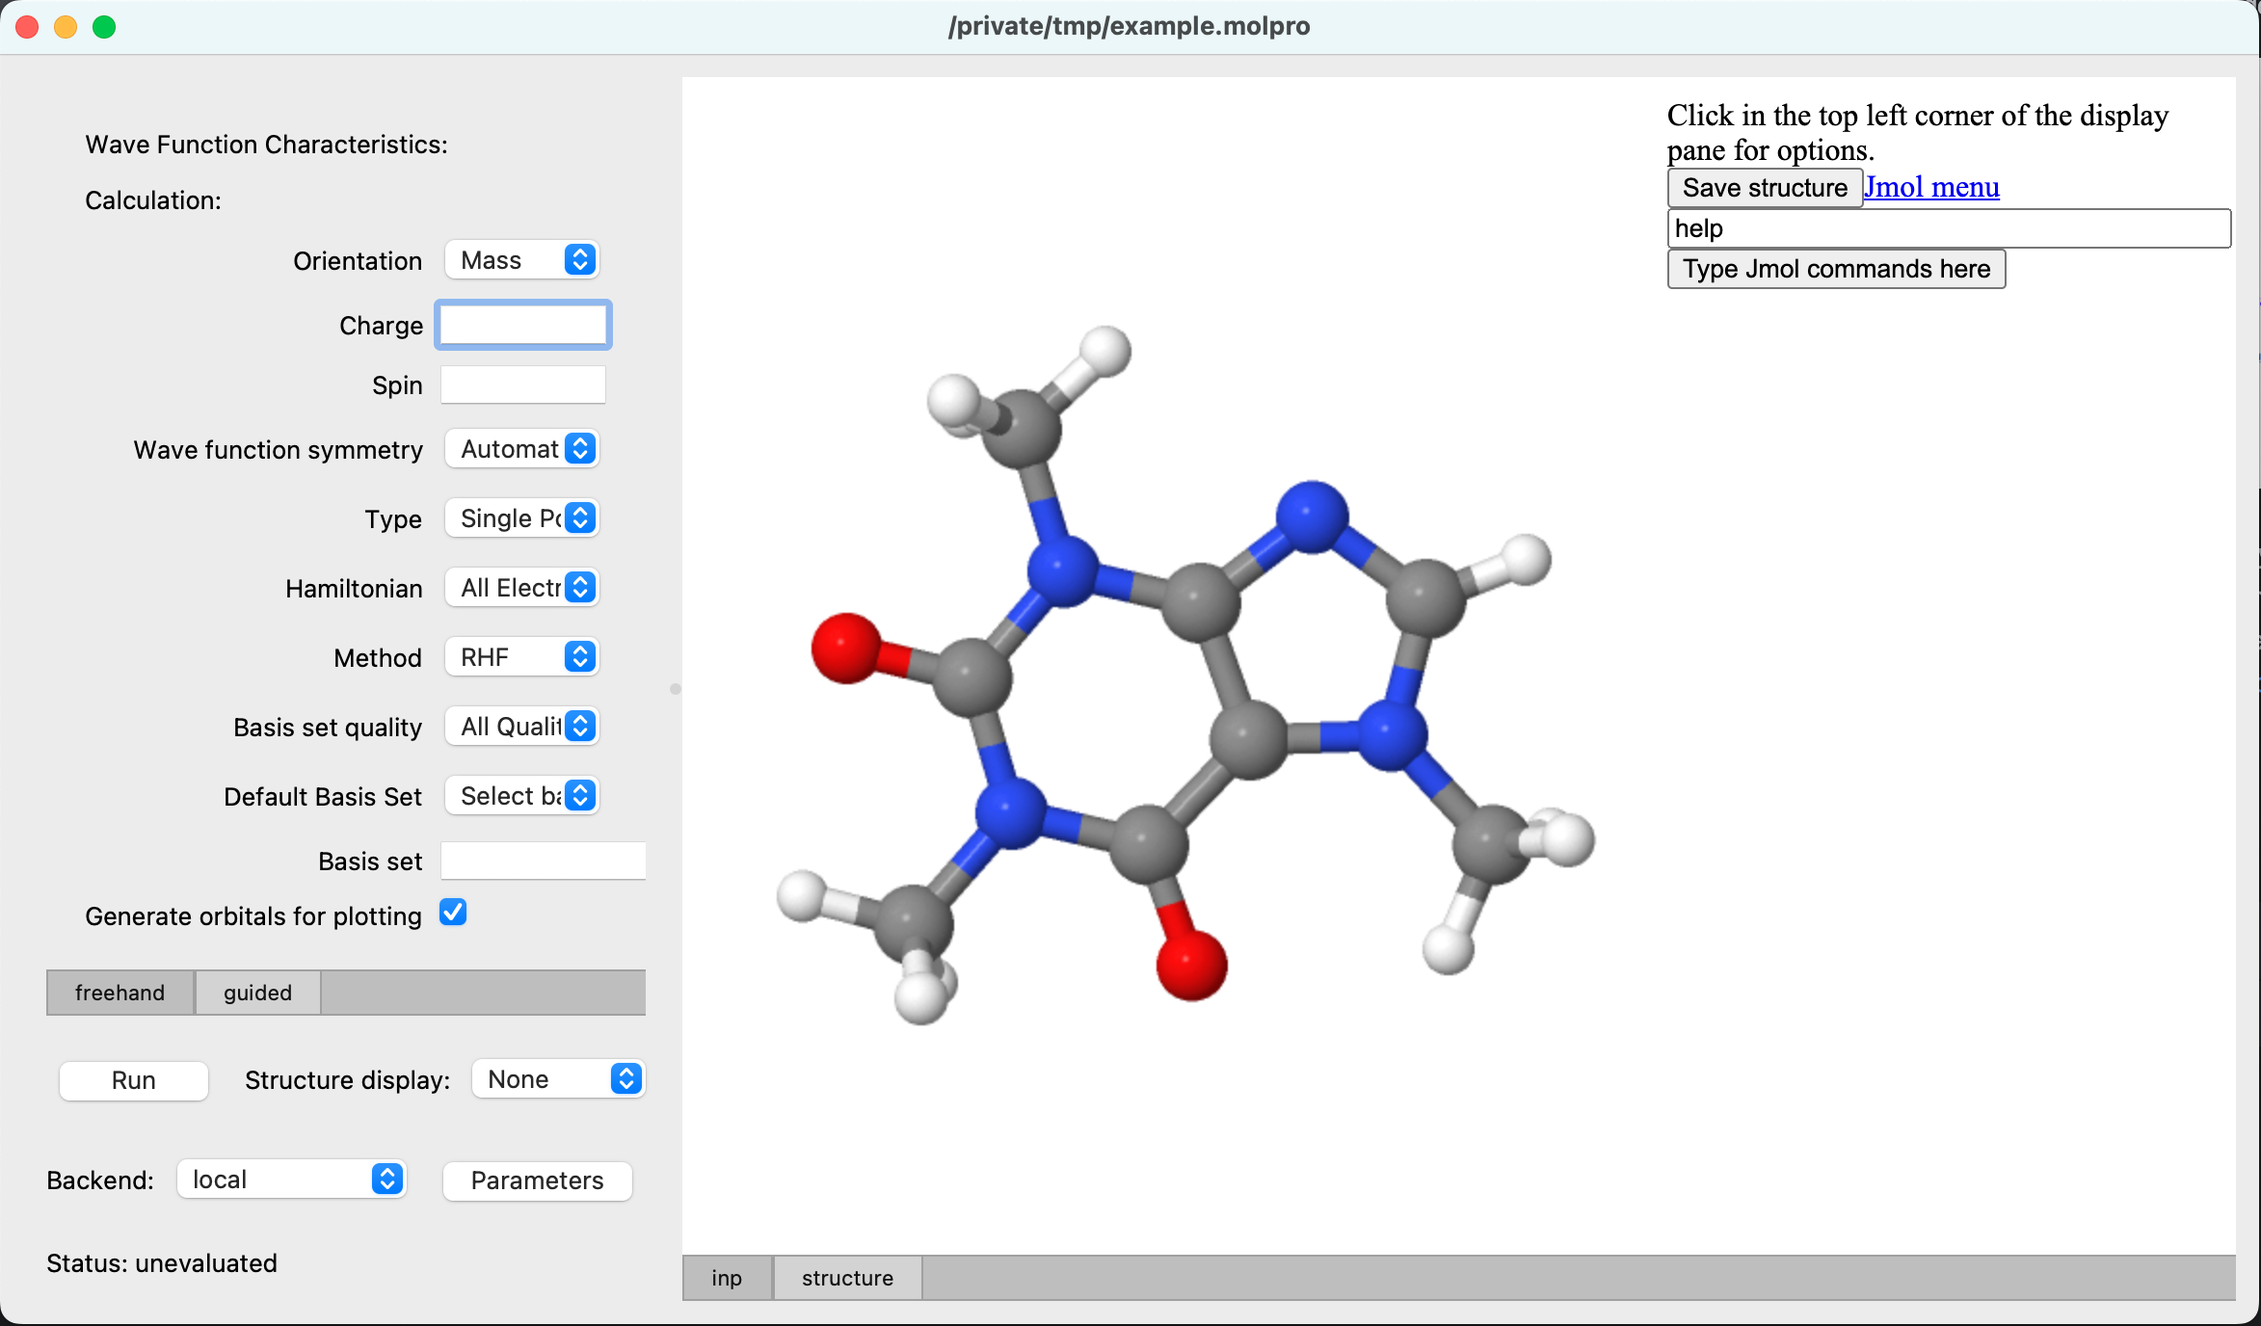
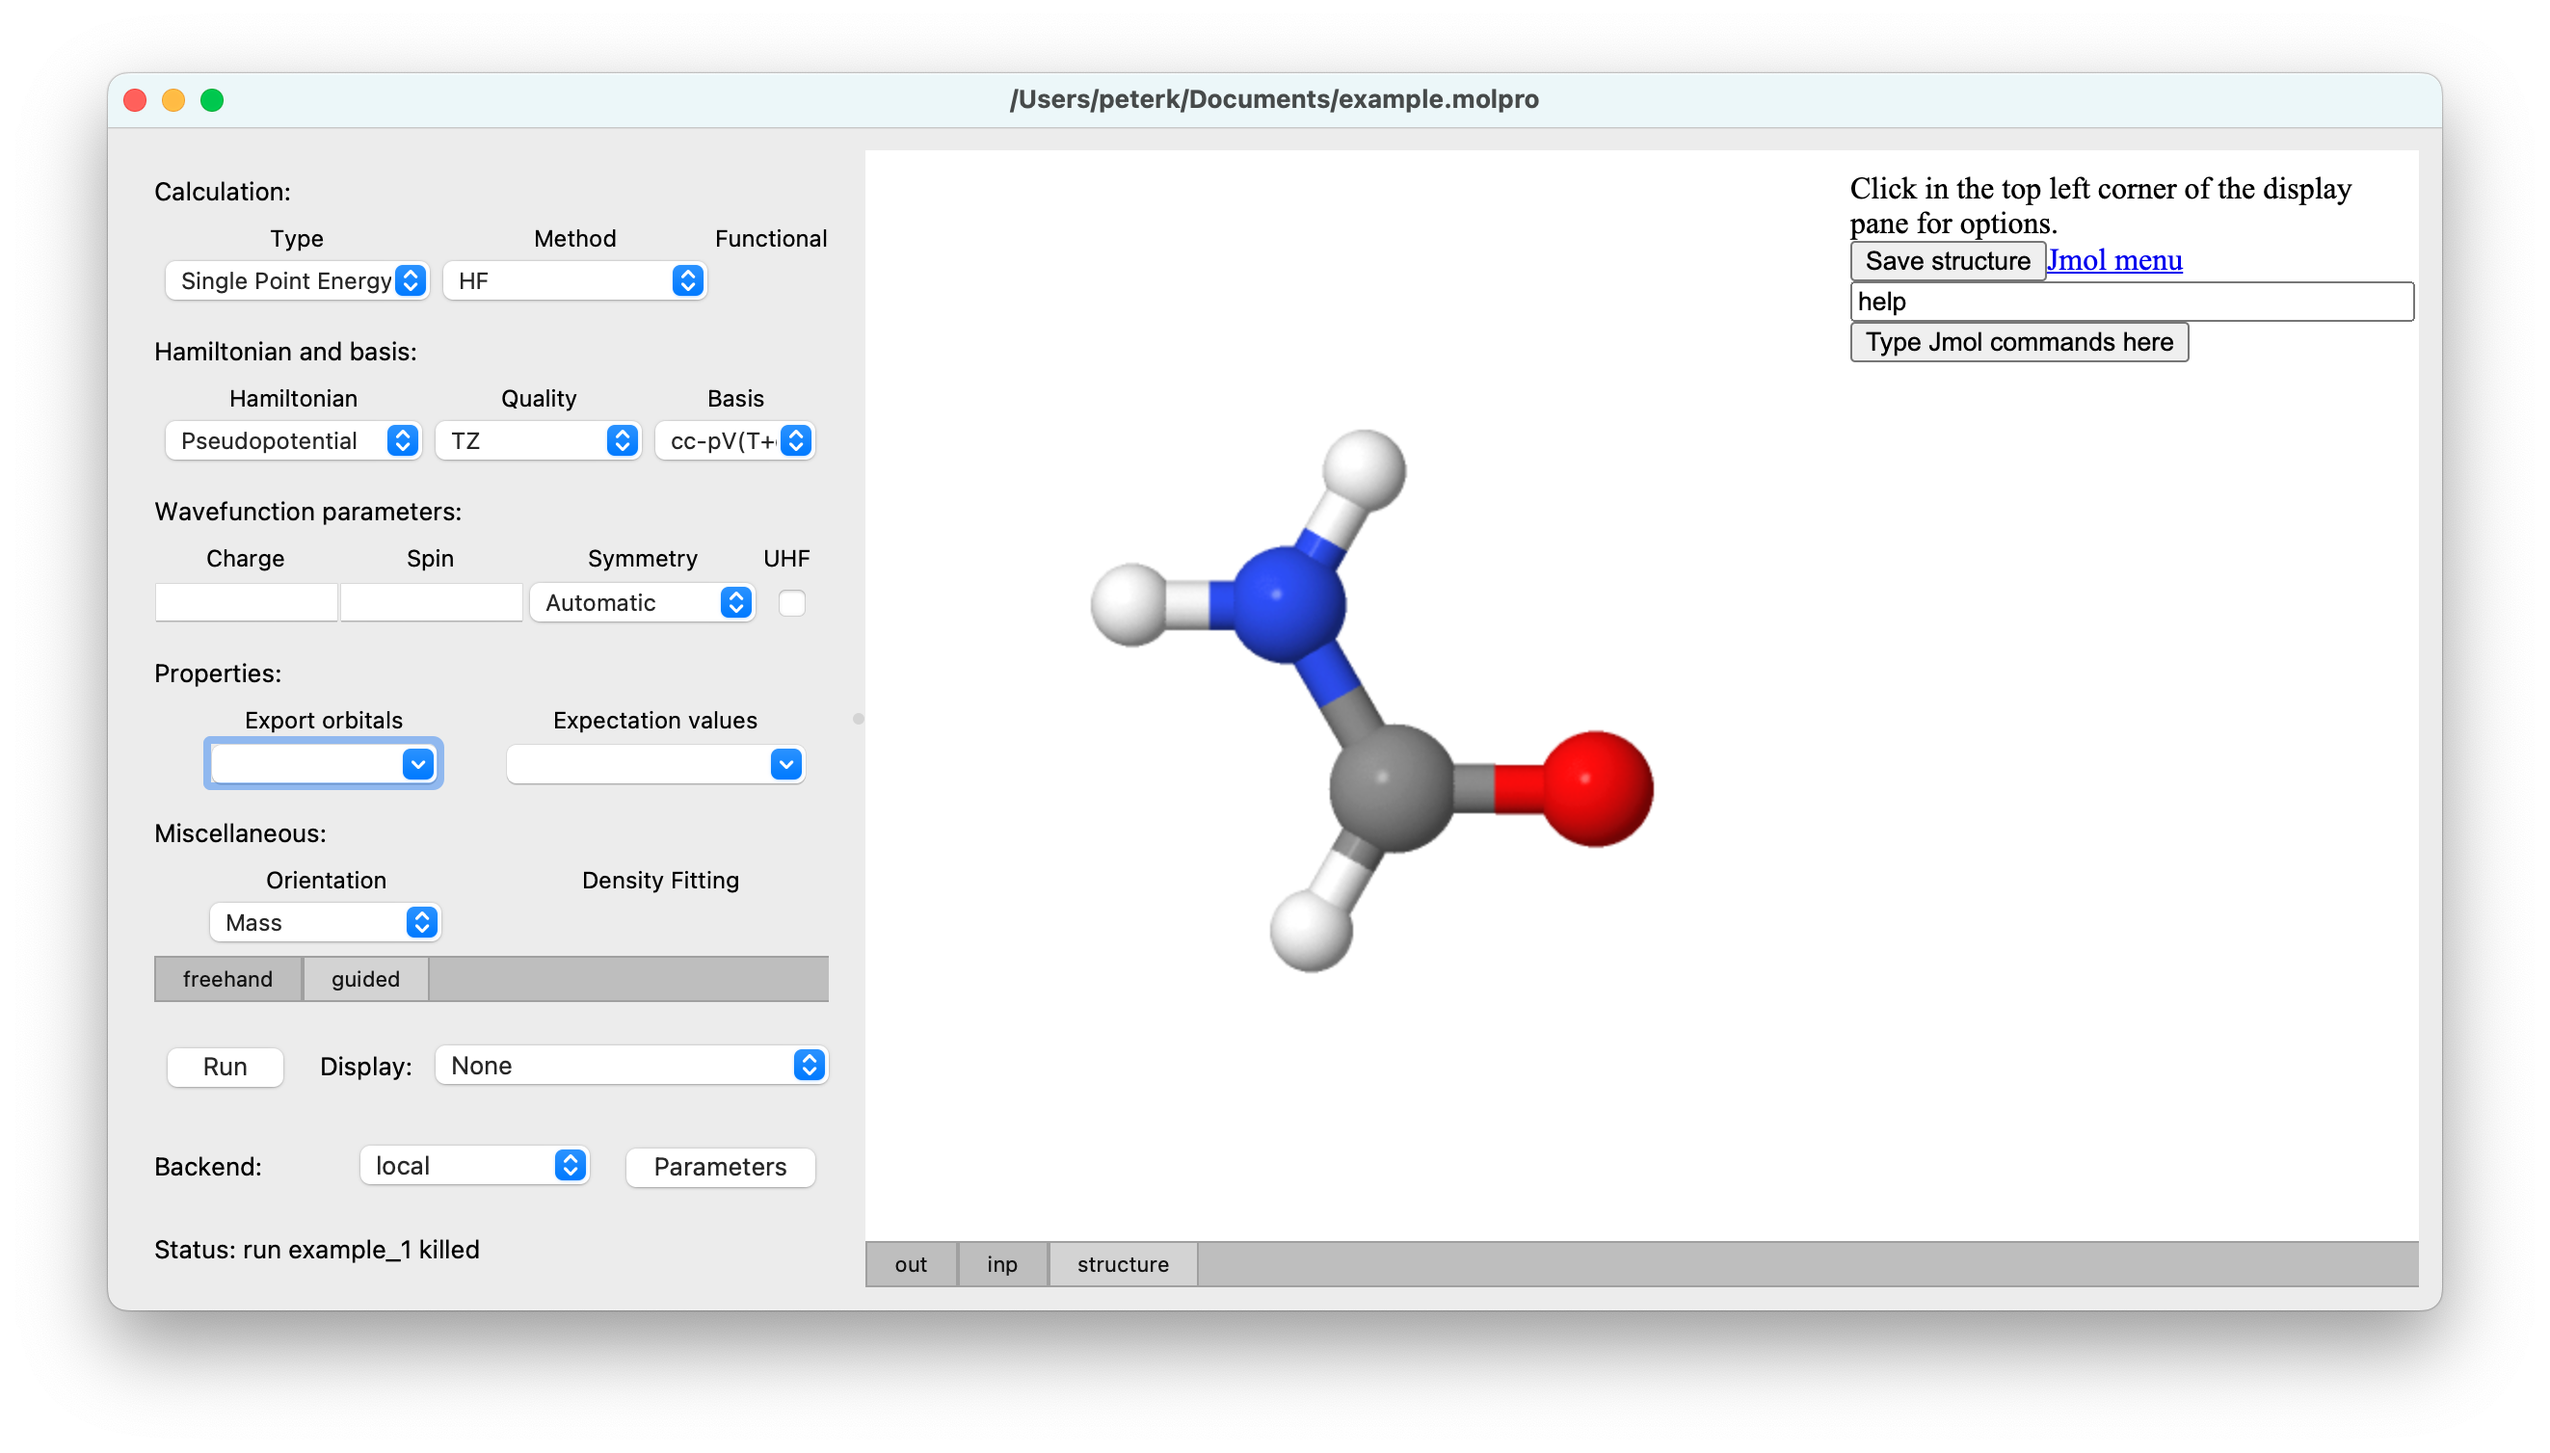
Update documentation to latest look.

diff --git a/doc/example.md b/doc/example.md
@@ -6,7 +6,7 @@ select `New project` and place it in the filesystem using the dialog that is pre
 <img src="ProjectWindow.png" alt="Project Window" width="600"/>  
 The left part of the project window is all about specifying the input for a Molpro job, and the right part displays usually aspects of a completed calculation, but, as here, can also be filled with the initial structure. The structure displayed at this point is editable using the embedded Jmol builder, for which options can be found be clicking near the top left corner.
 
-We now proceed to specify an MP2 geometry optimisation and frequency calculation using the 'guided mode' controls in the left region. The raw molpro input that is generated  can be seen and edited by selecting the `freehand` tab. On toggling back to `guided`, the right hand pane gives a read-only view of the input, which now looks like this:  
+We now proceed to specify an MP2 geometry optimisation and frequency calculation using the 'guided mode' controls in the left region, also opting for the canonical orbitals to be exported for later plotting. The raw molpro input that is generated  can be seen and edited by selecting the `freehand` tab. On toggling back to `guided`, the right hand pane gives a read-only view of the input, which now looks like this:  
 <img src="ProjectWindow2.png" alt="Project Window" width="600"/>  
 You are free to change the input either using the `guided` pane, or by directly editing the molpro input in the `freehand` pane; if you do the latter, guided mode can still be used later provided that the molpro input is sufficiently simple that it can be parsed.
 
